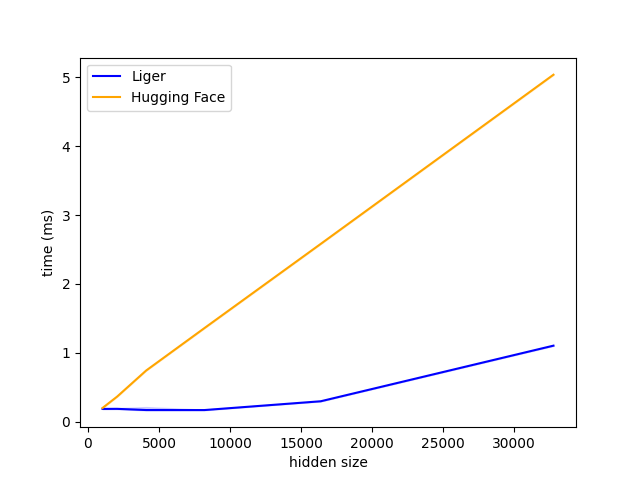
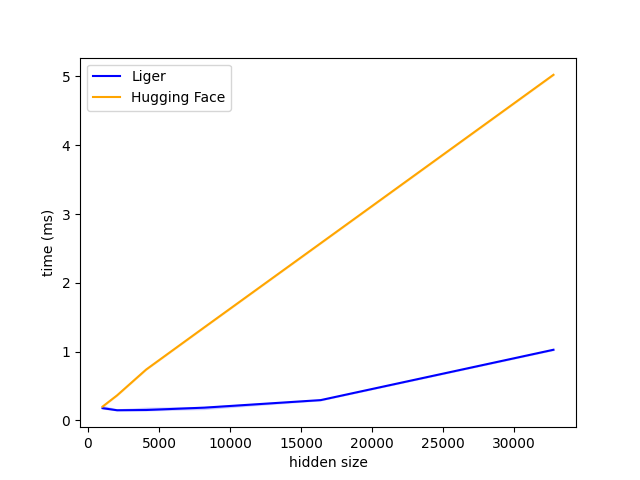
improve rms norm code quality (#43)
## Summary
improve rms norm code quality (#43)

<!---
## Details
This is an optional section; is there anything specific that reviewers
should be aware of?
--->

I am preparing for cuda mode talk, and i found rms norm is not very
readable.

1. var names are not precise
2. math formula is incorrect **in the comment**
3. comment not informative

This PR improves the above.

Also rerun benchmark for rms to ensure the perf does not degrade. (HF's
memory decreases a bit probably due to torch version)

## Testing Done
<!--- This is a required section; please describe how this change was
tested. --->

<!-- 
Complete the following tasks before sending your PR, and replace `[ ]`
with
`[x]` to indicate you have done them. 
-->

- [x] run `make test` to ensure correctness
- [x] run `make checkstyle` to ensure code style
- [x] run `make test-convergence` to ensure convergence

```
make checkstyle test test-convergence
flake8 .; flake8_status=$?; \
isort .; isort_status=$?; \
black .; black_status=$?; \
if [ $flake8_status -ne 0 ] || [ $isort_status -ne 0 ] || [ $black_status -ne 0 ]; then \
        exit 1; \
fi
Skipped 1 files
All done! ✨ 🍰 ✨
48 files left unchanged.
pytest --disable-warnings test/ --ignore=test/convergence
============================================================ test session starts ============================================================
platform linux -- Python 3.10.14, pytest-7.1.2, pluggy-1.0.0
rootdir: /home/jobuser/Liger-Kernel
[…]

diff --git a/src/liger_kernel/ops/rms_norm.py b/src/liger_kernel/ops/rms_norm.py
@@ -20,9 +20,12 @@ def _rms_norm_forward(
     BLOCK_SIZE: tl.constexpr,
 ):
     """
+    y_i = (x_i / (RMS)) * wi, RMS = sqrt(sum(x_i^2) / N)
+
     Reference:
     1. https://triton-lang.org/main/getting-started/tutorials/05-layer-norm.html
     2. https://github.com/unslothai/unsloth/blob/fd753fed99ed5f10ef8a9b7139588d9de9ddecfb/unsloth/kernels/rms_layernorm.py#L22
+    3. https://arxiv.org/pdf/1910.07467
     """
 
     row_idx = tl.program_id(0)
@@ -36,16 +39,17 @@ def _rms_norm_forward(
     X_row = tl.load(X_ptr + col_offsets, mask=mask, other=0)
     W_row = tl.load(W_ptr + col_offsets, mask=mask, other=0)
 
-    row_var = tl.sum(X_row * X_row, axis=0) / n_cols
-    inv_var = tl.math.rsqrt(row_var + eps)
+    mean_square = tl.sum(X_row * X_row, axis=0) / n_cols
+    inv_rms = tl.math.rsqrt(mean_square + eps)
 
-    # trick: row_var is tiny compared to X_row because it just has one per row we can save 4 ops (*, sum, /, rqrt) if we cache it
-    tl.store(r_ptr, inv_var)
+    # We can save time by caching rms with minimal memory overhead
+    # because rms is much smaller compared to X_row, as rms is for each row.
+    # However, on the computation side, it can save 4 operations (*, sum, /, sqrt).
+    tl.store(r_ptr, inv_rms)
 
-    normed = X_row * inv_var
+    Y_row = X_row * inv_rms * W_row
 
-    output = normed * W_row
-    tl.store(Y_ptr + col_offsets, output, mask=mask)
+    tl.store(Y_ptr + col_offsets, Y_row, mask=mask)
 
 
 @triton.jit
@@ -65,9 +69,10 @@ def _rms_norm_backward(
     BLOCK_SIZE: tl.constexpr,
 ):
     """
-    dx = (1 / var(x)) * (dy * w - (1/N) * (dy * w) dot x) * x
-    dw = sum(dy * (x / var(x)))
+    dx = (1 / RMS) * [dy * w  - (1 / N) * (1 / RMS^2) * ((dy * w) dot x) * x]. * means element-wise multiplication, whileas dot means dot product
+    dw = sum(dy * (x / RMS)). summation over BxT dimension
     """
+
     row_idx = tl.program_id(0)
     col_offsets = tl.arange(0, BLOCK_SIZE)
     mask = col_offsets < n_cols
@@ -81,26 +86,33 @@ def _rms_norm_backward(
     X_row = tl.load(X_ptr + col_offsets, mask=mask, other=0)
     W_row = tl.load(W_ptr + col_offsets, mask=mask, other=0)
 
-    # Get saved row variance
-    inv_var = tl.load(r_ptr)
+    # Get cached rms
+    inv_rms_row = tl.load(r_ptr)
 
-    normed = X_row * inv_var
-
-    dY_W = dY_row * W_row
-    dY_normed = dY_row * normed
-
-    rowsum_dY_normed = tl.sum(dY_W * normed, axis=0)
-    output = inv_var / n_cols * (n_cols * dY_W - normed * rowsum_dY_normed)
-    tl.store(dY_ptr + col_offsets, output, mask=mask)
+    dX_row = (inv_rms_row) * (
+        dY_row * W_row
+        - (1 / n_cols)
+        * inv_rms_row
+        * inv_rms_row
+        * tl.sum(dY_row * W_row * X_row, axis=0)
+        * X_row
+    )
+    tl.store(dY_ptr + col_offsets, dX_row, mask=mask)
 
     # calculate the gradient of W
-    tl.store(dW_ptr + col_offsets, dY_normed, mask=mask)
+    dW_row = dY_row * X_row * inv_rms_row
+    tl.store(dW_ptr + col_offsets, dW_row, mask=mask)
 
 
 class LigerRMSNormFunction(torch.autograd.Function):
     @staticmethod
     @ensure_contiguous
     def forward(ctx, X, W, eps):
+        """
+        X: (B, T, H) or (BxT, H)
+        W: (H,)
+        """
+
         shape = X.shape
         dim = shape[-1]
         X = X.view(-1, dim)
@@ -108,6 +120,7 @@ class LigerRMSNormFunction(torch.autograd.Function):
         BLOCK_SIZE, num_warps = calculate_settings(n_cols)
 
         Y = torch.empty((n_rows, n_cols), dtype=X.dtype, device=X.device)
+        # r is to cache (1/rms) for each row
         r = torch.empty(n_rows, dtype=X.dtype, device=X.device)
 
         # Check constraints.
@@ -139,6 +152,10 @@ class LigerRMSNormFunction(torch.autograd.Function):
     @staticmethod
     @ensure_contiguous
     def backward(ctx, dY):
+        """
+        Y: (B, T, H) or (BxT, H)
+        """
+
         shape = dY.shape
         dim = shape[-1]
         dY = dY.view(-1, dim)
@@ -146,6 +163,7 @@ class LigerRMSNormFunction(torch.autograd.Function):
         n_rows, n_cols = dY.shape
         dW = torch.zeros_like(X)
 
+        # Here we use dY to store the value of dX to save memory
         _rms_norm_backward[(n_rows,)](
             dY,
             dY.stride(0),
